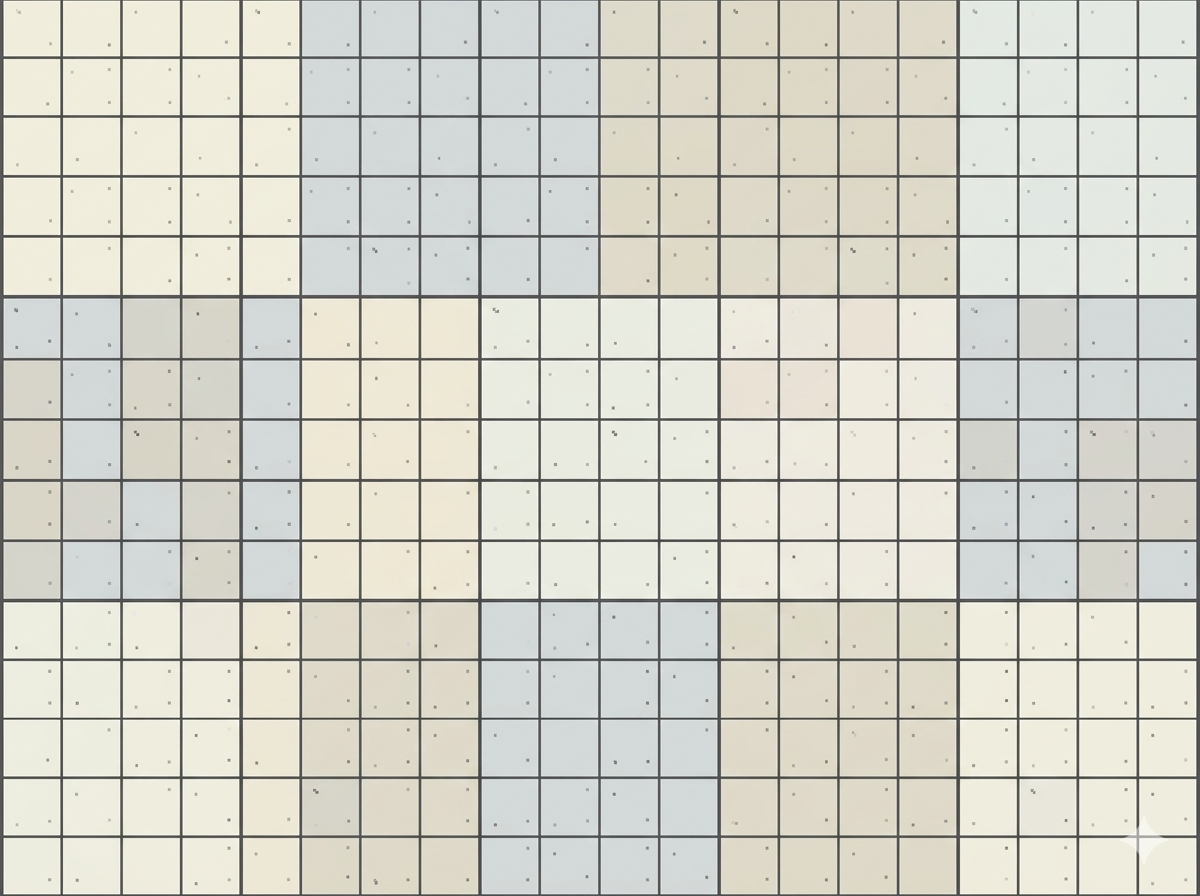
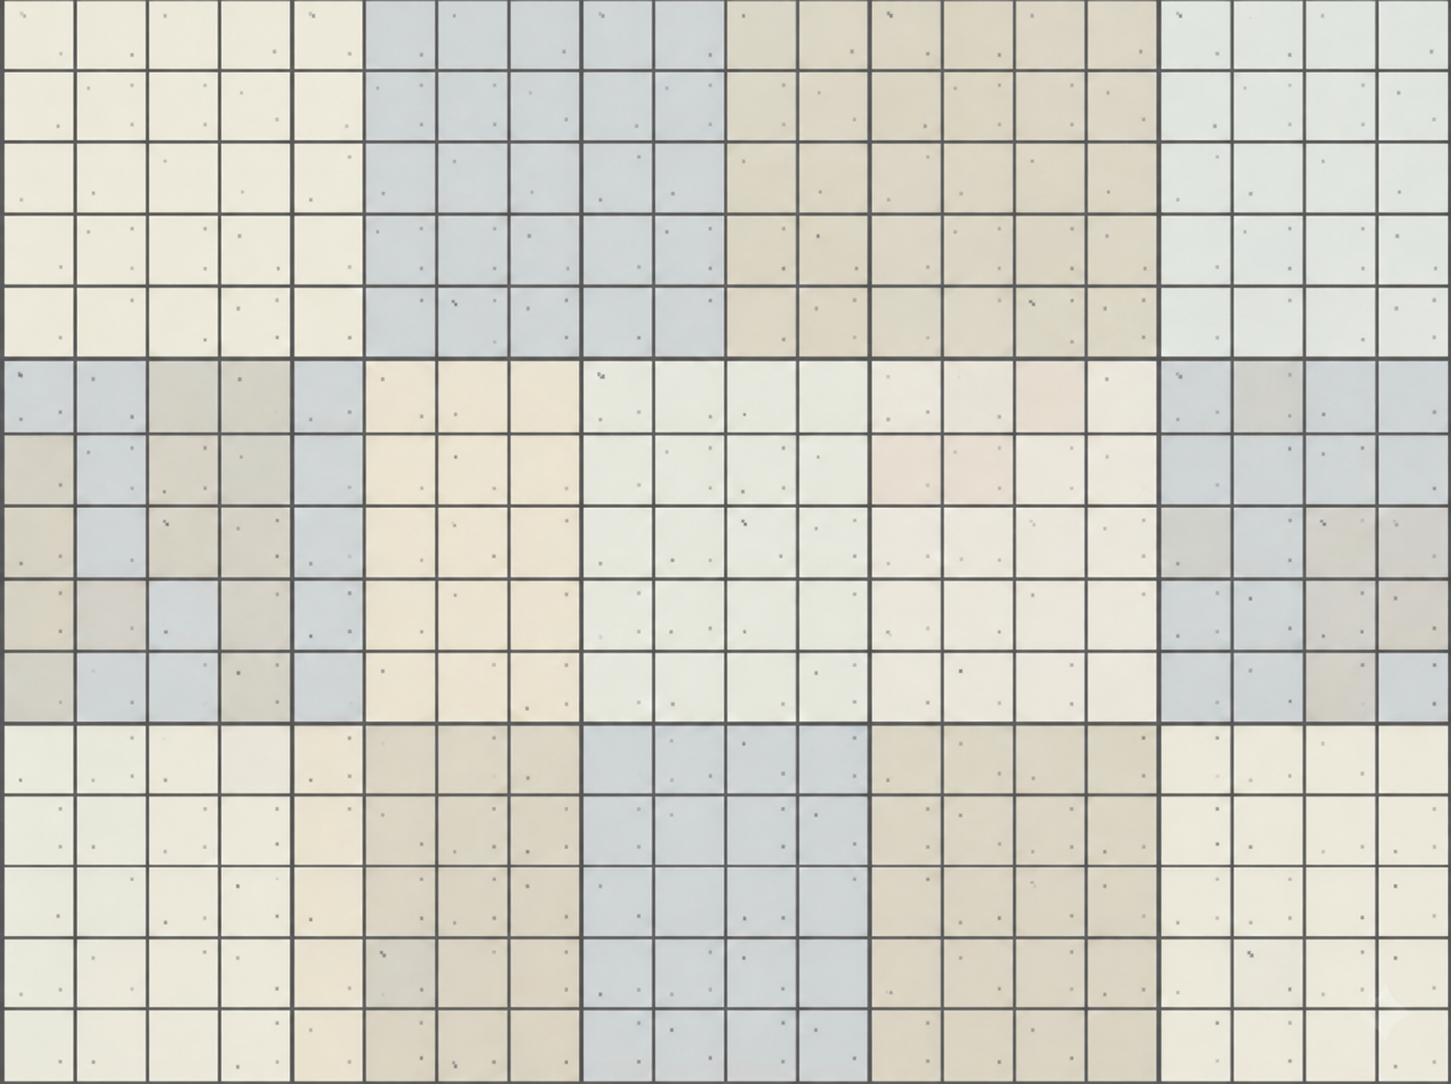
Added a background map (hospital floor), changed UI / HUD to a darker colour

diff --git a/src/ui.py b/src/ui.py
@@ -6,7 +6,7 @@ import config
 
 
 def draw_fps(surface: pygame.Surface, clock: pygame.time.Clock, font: pygame.font.Font) -> None:
-    fps_text = font.render(f"FPS: {clock.get_fps():.0f}", True, config.UI_COLOR)
+    fps_text = font.render(f"FPS: {clock.get_fps():.0f}", True, config.HUD_COLOR)
     surface.blit(fps_text, (10, 8))
 
 
@@ -64,12 +64,20 @@ def draw_hud(
     else:
         lines.append(f"Shot CD: {max(0.0, shot_cd):.2f}s")
 
-    # Render
+    # Render with semi-transparent backing panel
     x, y = 10, 30
+    line_h = 22
+    pad = 6
+    panel_w = 220
+    panel_h = len(lines) * line_h + pad * 2
+    backing = pygame.Surface((panel_w, panel_h), pygame.SRCALPHA)
+    backing.fill((255, 255, 255, 140))
+    surface.blit(backing, (x - pad, y - pad))
+
     for line in lines:
-        surf = font.render(line, True, config.UI_COLOR)
+        surf = font.render(line, True, config.HUD_COLOR)
         surface.blit(surf, (x, y))
-        y += 22
+        y += line_h
 
 
 def draw_infection_curve(
@@ -83,8 +91,11 @@ def draw_infection_curve(
 
     x, y, w, h = rect
 
-    # Outline box
-    pygame.draw.rect(surface, config.UI_COLOR, pygame.Rect(x, y, w, h), 1)
+    # Outline box with backing
+    backing = pygame.Surface((w, h), pygame.SRCALPHA)
+    backing.fill((255, 255, 255, 140))
+    surface.blit(backing, (x, y))
+    pygame.draw.rect(surface, config.HUD_COLOR, pygame.Rect(x, y, w, h), 1)
 
     # Helper to convert ratio list to points
     def ratios_to_pts(r_list: list[float]):
@@ -106,10 +117,10 @@ def draw_infection_curve(
                 color = config.STRAINS[sid]["color"]
                 pygame.draw.lines(surface, color, False, pts, 1)
 
-    # Draw total curve (thicker, white/default)
+    # Draw total curve (thicker)
     pts = ratios_to_pts(ratios)
     if pts:
-        pygame.draw.lines(surface, config.UI_COLOR, False, pts, 2)
+        pygame.draw.lines(surface, config.HUD_COLOR, False, pts, 2)
 
 
 def draw_healthy_population_curve(

diff --git a/src/game.py b/src/game.py
@@ -8,6 +8,7 @@ import pygame
 import config
 from agents import spawn_agents, resolve_agent_collisions
 from doctor import Doctor
+from map import HospitalMap
 from projectiles import Projectile
 from ui import draw_fps, draw_hud, draw_infection_curve, draw_menu, draw_settings_menu, draw_pause_overlay
 
@@ -68,6 +69,9 @@ class Game:
 
         # Doctor (player)
         self.doctor = Doctor()
+
+        # Hospital floor background
+        self.map = HospitalMap()
 
         # Virus sprite for infected agents
         virus_path = os.path.join(os.path.dirname(__file__), "components", "virus.png")
@@ -661,7 +665,7 @@ class Game:
         return blurred
 
     def draw(self) -> None:
-        self.screen.fill(config.BG_COLOR)
+        self.map.draw(self.screen)
 
         # ---------- MENU ----------
         if self.state == config.MENU:
@@ -696,6 +700,7 @@ class Game:
             self.doctor.draw(self.screen)
             pygame.display.flip()
             return
+
 
         # ---------- WORLD (PLAYING / PAUSED / WIN / LOSE) ----------
         if self.state == config.PAUSED and self.pause_screenshot:

diff --git a/src/map.py b/src/map.py
@@ -1,0 +1,24 @@
+from __future__ import annotations
+
+import os
+import pygame
+import config
+
+
+class HospitalMap:
+    """Manages the game world background (hospital floor).
+
+    Loads the floor image once, scales it to the screen dimensions,
+    and provides a draw method to blit it each frame.
+    """
+
+    def __init__(self) -> None:
+        path = os.path.join(
+            os.path.dirname(__file__), "components", "Map", "floor.png"
+        )
+        raw = pygame.image.load(path).convert()
+        self.surface = pygame.transform.smoothscale(raw, (config.WIDTH, config.HEIGHT))
+
+    def draw(self, surface: pygame.Surface) -> None:
+        """Draw the floor background at (0, 0)."""
+        surface.blit(self.surface, (0, 0))

diff --git a/src/config.py b/src/config.py
@@ -67,7 +67,8 @@ INFECTED_COLOR = STRAINS[0]["color"]
 
 # Doctor / UI
 DOCTOR_COLOR = (80, 160, 230)
-UI_COLOR = (235, 235, 235)
+UI_COLOR = (235, 235, 235)          # Light — used on dark menu/overlay panels
+HUD_COLOR = (25, 25, 30)            # Dark — used on the light hospital floor
 
 
 # -----------------------------

diff --git a/docs/CHANGELOG.md b/docs/CHANGELOG.md
@@ -1,6 +1,15 @@
 # Changelog
 All notable changes to this project will be documented here.
 
+## v0.33 — Map & UI polish
+### Added
+- **Map**: Added a hospital floor background image to the game.
+
+### Changed
+- **Background**: Changed the background color of the game to a light gray to improve contrast against the new background.
+- **HUD**: Changed the color of the HUD and Infection Curve to a dark gray to improve contrast against the new background.
+- **UI**: Added a semi-transparent backing panel to the HUD and Infection Curve to improve readability.
+
 ## v0.32 — Animation Bug Fixes & Post-Game Sequence
 ### Added
 - **Per-Animation Scaling**: Each animation state now has its own scale factor (`DOCTOR_ANIMATION_SCALES` in config) to balance visual sizes between idle/running and shooting/injecting sprites.
